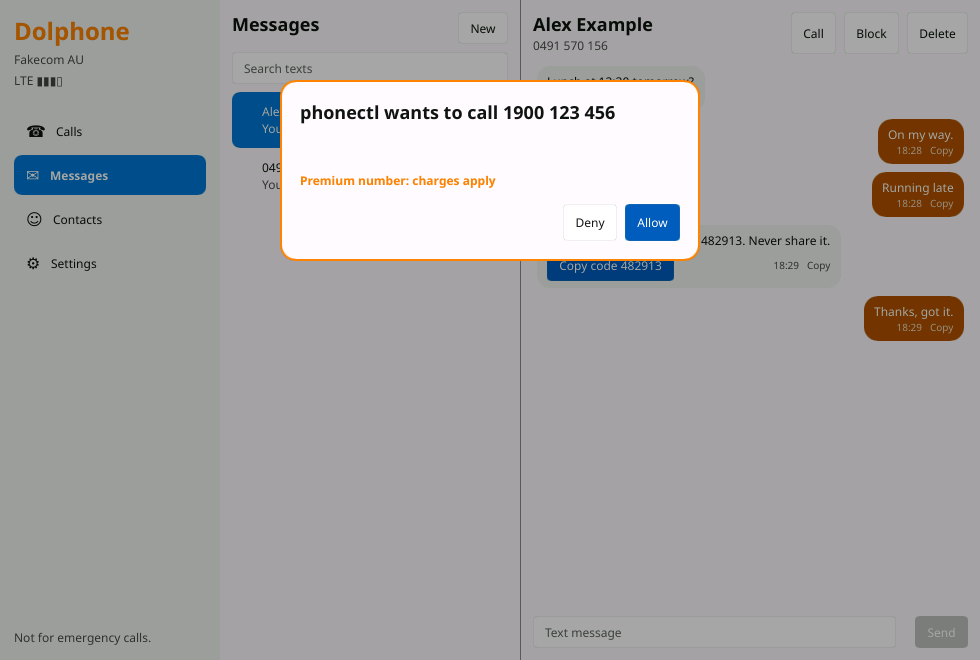
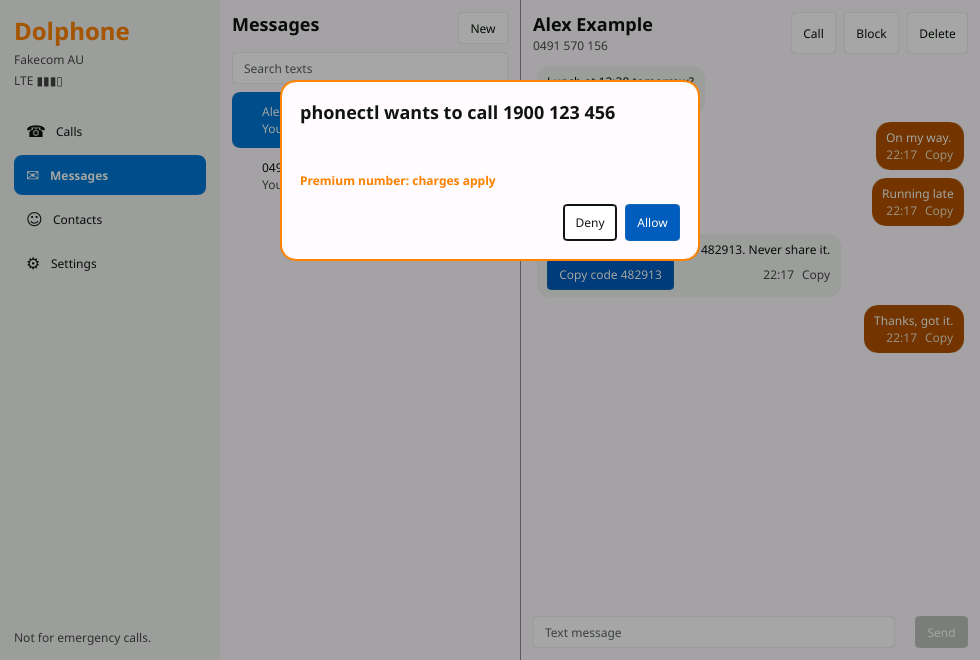
Docs from the twenty reviews: API reference, rules, counts; screenshots
- phone-api: the error names phoned really replies with (the standard D-Bus
  ones), every request kind and what its fields carry, the Contacts interface,
  who may do what, that signals carry no text; request_setting's doc was on
  the wrong method.
- docs/RULES.md: rules on incoming texts, which were documented only in the
  source.
- README, CHANGELOG, DEVELOPING: 224 e2e checks, 184 unit tests, 5 live UI
  tests, 10 KDE Connect checks; the thirty reviews and what they changed.
  ROADMAP: what the second round found that is still to do.
- The desktop live test waits for its own thread instead of whichever is first.
- Screenshots re-rendered (12 px minimum on the desktop, new labels).

Claude-Session: https://claude.ai/code/session_01UdycNdb8PBPy7WTyWjqGok

diff --git a/crates/phone-api/src/lib.rs b/crates/phone-api/src/lib.rs
@@ -14,8 +14,21 @@
 //! | `Confirm` | actions waiting for a press on the device |
 //! | `Audio` | where call audio goes, the ringer |
 //! | `Bluetooth` | pairing and connecting headsets and speakers |
-//! | `Modem` | network status and USSD |
-//! | `Settings` | blocked numbers, preferences, wiping |
+//! | `Modem` | network status, USSD and service codes, the modem's setup |
+//! | `Settings` | blocked numbers, preferences, grants, the audit log, wiping |
+//! | `Contacts` | reading and changing contacts, copying a phone's phonebook |
+//!
+//! What a caller may do depends on who it is: Dolphone's own apps may do
+//! everything; another program may ask to dial, text, change a setting or a
+//! contact (each waits for a press on the device; see [`Request`]), may hang up and
+//! read the modem's status, and may read messages and the call log only with a read
+//! grant (`read_grants`). Refusals come back as the standard
+//! `org.freedesktop.DBus.Error.AccessDenied`; bad arguments as `InvalidArgs`; rate
+//! limits as `LimitsExceeded`; what the modem or network refused as `Failed` or
+//! `NotSupported`, with the reason in the message.
+//!
+//! Signals carry no message text, ever: [`MessageInfo::body`] is empty in
+//! `MessageAdded`, and a reader fetches the conversation to read it.
 //!
 //! Enums travel as `u8` and convert to and from [`phone_core::model`]'s types on
 //! either side (this crate keeps no dependency on phone-core so a script author can
@@ -37,13 +50,19 @@ pub mod iface {
     pub const SETTINGS: &str = "io.github.isaacrowntree.Dolphone1.Settings";
 }
 
-/// Error names, as `phoned` raises them.
+/// The error names `phoned` replies with: the standard D-Bus ones, with the reason
+/// in the message.
 pub mod error {
-    pub const RATE_LIMITED: &str = "io.github.isaacrowntree.Dolphone1.Error.RateLimited";
-    pub const NO_MODEM: &str = "io.github.isaacrowntree.Dolphone1.Error.NoModem";
-    pub const NO_SUCH_CALL: &str = "io.github.isaacrowntree.Dolphone1.Error.NoSuchCall";
-    pub const INVALID: &str = "io.github.isaacrowntree.Dolphone1.Error.Invalid";
-    pub const DENIED: &str = "io.github.isaacrowntree.Dolphone1.Error.Denied";
+    /// Not allowed for this caller (only Dolphone's own apps, or a read grant).
+    pub const DENIED: &str = "org.freedesktop.DBus.Error.AccessDenied";
+    /// A bad number, an unknown setting, no such call or request.
+    pub const INVALID: &str = "org.freedesktop.DBus.Error.InvalidArgs";
+    /// Too many texts or calls this hour, or over a grant's limit.
+    pub const RATE_LIMITED: &str = "org.freedesktop.DBus.Error.LimitsExceeded";
+    /// Something this modem, network or setup cannot do.
+    pub const NOT_SUPPORTED: &str = "org.freedesktop.DBus.Error.NotSupported";
+    /// It was tried and failed (no modem, the network refused).
+    pub const FAILED: &str = "org.freedesktop.DBus.Error.Failed";
 }
 
 /// A live call.
@@ -199,15 +218,20 @@ pub struct Placed {
 #[zbus(crate = "zbus::wire")]
 pub struct Request {
     pub id: u32,
-    /// "call", "sms" or "ussd".
+    /// What it would do: "call", "sms" (a text or an MMS), "contact", "grant",
+    /// "setting", "modem" (the modem's setup), "kdeconnect" (pairing a laptop) or
+    /// "wipe".
     pub kind: String,
+    /// What it is done to: the number (comma separated for a group), the setting's
+    /// key, the contact change in words, the laptop.
     pub target: String,
-    /// The text, for an SMS.
+    /// The text for a call or text ("" to programs other than Dolphone's apps);
+    /// the new value for a setting; "N/h|days" for a grant (see [`grant_terms`]).
     pub body: String,
     /// Who asked: the program's name as the daemon saw it.
     pub requester: String,
-    /// Why it needs confirming: "external", "premium", "short", "international",
-    /// "emergency".
+    /// Why it needs confirming: "external" (another program asked), "premium",
+    /// "short", "international", "emergency", or the kind itself for the rest.
     pub reason: String,
 }
 
@@ -470,12 +494,13 @@ pub trait Settings {
     /// Delete every message, call and setting. Asks for confirmation on the device
     /// unless it came from Dolphone's own Settings app.
     fn wipe(&self) -> zbus::Result<Placed>;
+    /// Change a setting from another program: it waits for a press on the device
+    /// (Dolphone's own apps get it at once). Not the SIP password. For
+    /// `read_grants`, "+name" adds one program and "-name" removes one.
+    fn request_setting(&self, key: &str, value: &str) -> zbus::Result<Placed>;
     /// Ask for a standing grant to text `numbers` (comma separated, `*` suffix for a
     /// prefix) up to `per_hour` times for `days` days (0 for no end). Waits for the
     /// owner's confirmation on the device, like any outside request.
-    /// Change a setting from another program: it waits for a press on the device
-    /// (Dolphone's own apps get it at once). Not the SIP password.
-    fn request_setting(&self, key: &str, value: &str) -> zbus::Result<Placed>;
     fn request_grant(&self, numbers: &str, per_hour: u32, days: u32) -> zbus::Result<Placed>;
     fn grants(&self) -> zbus::Result<Vec<Grant>>;
     fn revoke_grant(&self, id: i64) -> zbus::Result<()>;

diff --git a/apps/desktop/src/main.rs b/apps/desktop/src/main.rs
@@ -453,7 +453,11 @@ mod tests {
         // A one-time code arrives: the conversation offers to copy it.
         phonectl(&["fake", "sms", "+61491570156", "Your Example Bank code is 482913. Never share it."]);
         ui.invoke_navigate(1);
-        pump(&rx, "the thread is listed", |a| !a.threads.is_empty());
+        // This text's thread, on top: earlier live tests left threads of their own,
+        // and the first one may still be one of those until this text arrives.
+        pump(&rx, "the thread is listed", |a| {
+            a.threads.first().is_some_and(|t| t.peer == "+61491570156" && t.last_body.contains("482913"))
+        });
         ui.invoke_open_thread(0);
         pump(&rx, "the code is found", |a| {
             use slint::Model;

diff --git a/docs/introduction.md b/docs/introduction.md
@@ -67,18 +67,27 @@ disagree about a call. More in [docs/ARCHITECTURE.md](ARCHITECTURE.md).
 Everything above works against **fake-mm**, a stand-in ModemManager that `mmcli`
 itself accepts, and a second baresip playing the far end of SIP calls. The tests:
 
-- **212 end-to-end checks** (`scripts/e2e.sh`): phoned, the fake modem, a fake
-  mmsd-tng and phonectl playing through calls, texts, MMS, alerts, SIM PIN, SIP,
-  service codes, the modem's setup, grants, rules, contacts, the encrypted store,
-  serial call audio through real PipeWire, and what an untrusted script is and is
-  not allowed to do;
-- **4 live UI tests** (`scripts/ui-e2e.sh`): the Dialer, Messages, Settings and the
-  desktop app, driven through their real input against a live phoned, with a
-  screenshot of each step;
-- **11 KDE Connect checks** (`scripts/kdeconnect-e2e.sh`) against the real
+- **224 end-to-end checks** (`scripts/e2e.sh`): phoned, the fake modem, a fake
+  mmsd-tng and phonectl playing through calls, texts, MMS, alerts, SIM PIN and SIM
+  codes, an emergency call with the SIM locked, SIP, service codes, the modem's
+  setup, grants, rules, contacts, the encrypted store, serial call audio through
+  real PipeWire, and what an untrusted script is and is not allowed to do; they
+  also pass with every CPU core busy, as a stand-in for a slow device;
+- **5 live UI tests** (`scripts/ui-e2e.sh`): the Dialer, Messages, Settings and the
+  desktop app (and its tray icon), driven through their real input against a live
+  phoned, with a screenshot of each step;
+- **10 KDE Connect checks** (`scripts/kdeconnect-e2e.sh`) against the real
   kdeconnectd: pairing, texts both ways, a ringing call;
-- **137 unit tests**, including every panel screen rendered and checked against the
+- **184 unit tests**, including every panel screen rendered and checked against the
   panel's fonts.
+
+Before release it had thirty reviews: ten for features and fit, then twenty more
+on security from a same-user program and from the network, Rust robustness,
+concurrency, data integrity, packaging, the modem, audio, emergency calling,
+telephony standards, numbers abroad, accessibility, the scripting API, the tests
+themselves, onboarding, FlipCTL's conventions, licensing, battery use, failure
+recovery and privacy. What they found is fixed or written down in
+[ROADMAP.md](roadmap.md).
 
 The panel apps also run in the real FlipCTL (its browser view, in a VM).
 **Dolphone has not yet carried a real call**: that needs the hardware test in
@@ -131,9 +140,9 @@ On an Apple Silicon Mac with [OrbStack](https://orbstack.dev):
 ```sh
 scripts/dev-setup.sh                 # a Debian 13 arm64 machine, FlipCTL built, fake modem in
 orb -m f1 scripts/run-dev.sh         # build, install, start; open http://f1.orb.local:8899/
-orb -m f1 phonectl fake ring 0491570156          # and watch the panel
-orb -m f1 phonectl fake sms 0491570156 "hello"
-orb -m f1 phonectl fake broadcast 4370 "Test alert"
+orb -m f1 ~/.local/bin/phonectl fake ring 0491570156     # and watch the panel
+orb -m f1 ~/.local/bin/phonectl fake sms 0491570156 "hello"
+orb -m f1 ~/.local/bin/phonectl fake broadcast 4370 "Test alert"
 ```
 
 More in [docs/DEVELOPING.md](DEVELOPING.md).
@@ -175,6 +184,7 @@ phonectl device                                     # which device profile, and 
 
 - [Install](install.md)
 - [Buttons](BUTTONS.md): every key on every screen
+- [Rules on incoming texts](RULES.md): run a command when a matching text arrives
 - [Architecture](ARCHITECTURE.md): the pieces and why they are split that way
 - [Audio](AUDIO.md): routes, echo cancellation, Bluetooth, the jack
 - [Devices](DEVICES.md): device profiles, and adding one
@@ -185,7 +195,11 @@ phonectl device                                     # which device profile, and 
 
 ## License
 
-Source: MIT. The panel apps link Slint through flipctl-app under GPL-3.0-only, so
-their **binaries are GPL-3.0-only**; each release carries the full corresponding
-source. The panel fonts are CC BY-SA 3.0, Unlicense and MIT; see each bundle's
-`NOTICE.md` and `THIRD-PARTY-LICENSES.md`.
+Source: MIT. The panel apps and the desktop app link Slint (the panel apps through
+flipctl-app) under GPL-3.0-only, so **those binaries are GPL-3.0-only**; each
+release carries the full corresponding source, and the Debian package says where
+it is in `/usr/share/doc/dolphone/copyright`. phoned, phonectl and the gateway are
+MIT, with their dependencies' notices in `THIRD-PARTY-LICENSES.md` (SQLCipher's
+among them). The panel fonts are CC BY-SA 3.0, Unlicense and MIT, and the AppImage
+runtime at the head of each bundle has its own notices; see each bundle's
+`NOTICE.md`.

diff --git a/CHANGELOG.md b/CHANGELOG.md
@@ -62,9 +62,48 @@ The roadmap from the reviews, done:
   off. A program asking to change a setting (`phonectl set`, `phonectl device use`)
   waits for a press on the device, as texts and calls do; Delete phone data removes
   contacts too. The panel apps no longer link the database at all.
-- Tests: the end-to-end suite grew to 212 checks, with 11 more against the real KDE
+- Tests: the end-to-end suite grew to 224 checks, with 10 more against the real KDE
   Connect daemon; the four apps are driven live against phoned
-  (`scripts/ui-e2e.sh`); CI runs in Debian 13 containers.
+  (`scripts/ui-e2e.sh`); CI runs in Debian 13 containers; the suite also passes
+  with every CPU core busy.
+
+Fixed after twenty more reviews (security from a program and from the network,
+robustness, concurrency, data, packaging, the modem, audio, emergency calling,
+telephony standards, numbers abroad, accessibility, the scripting API, the tests,
+onboarding, FlipCTL's conventions, licensing, battery, failure recovery, privacy):
+
+- Security: an AppImage front end must be a real FUSE mount; a SIP peer is a
+  contact's number only from the account's provider, and SIP texts run no rules;
+  Bluetooth pairing accepts only the device picked; KDE Connect binds approval to
+  the asking certificate, caps lines, connections and requests, and times out
+  handshakes; the gateway refuses non-loopback addresses without
+  `--insecure-listen`, caps connections and has deadlines; mmsd-tng must be a
+  system program; notifications escape markup; grant prompts say which numbers,
+  how often and for how long; live calls' numbers and others' requests are masked
+  for programs that may not read; the SIM's PIN and PUK codes are handled on the
+  device instead of sent as USSD.
+- Emergency: national numbers for NZ, India, Singapore, France, Russia, Brazil,
+  China, South Africa; `+61 000` and the like; an emergency call with the SIM
+  locked; Australia's Emergency Alert texts (0444 444 444) never blocked and
+  sounded through silent; alerts shown even when they cannot be stored; channel 919.
+- Calls and texts: a call adopted after a restart gets its audio; a call that can
+  no longer be followed ends instead of making later calls "waiting"; a
+  ModemManager restart or a pulled SIM ends the old calls; audio starts and stops in
+  order; SIP crashes are noticed; Bluetooth calls switch the headset to its
+  hands-free profile; the speaker route and the ringer play where they should;
+  caller-ID hiding survives a modem restart; delivery reports wait out temporary
+  errors; segment counts match how parts are packed; alphanumeric senders keep
+  their names; two different international numbers are never one contact.
+- Data: a store is moved aside only when damaged, with its WAL; contact edits keep
+  every other line of a card and write atomically; MMS pictures cannot overwrite
+  each other and are kept by mmsd-tng until all are saved; texts left sending
+  become failed and can be sent again.
+- Packaging and licences: the LED udev rule works (it never ran its commands);
+  upgrades keep ModemManager running and the owner's debug-mode answer;
+  SQLCipher's notice, the desktop app's GPL, the AppImage runtime's notices; the
+  source tarball builds offline.
+- Battery: the apps redraw and poll only when something changed; contacts are read
+  once; phoned wakes less when idle.
 
 - phoned: calls (dial, answer, decline, hold/swap, waiting, DTMF, mute), texts
   (multipart, cleaning, deletion from the modem once stored), confirmations for

diff --git a/README.md b/README.md
@@ -67,18 +67,27 @@ disagree about a call. More in [docs/ARCHITECTURE.md](docs/ARCHITECTURE.md).
 Everything above works against **fake-mm**, a stand-in ModemManager that `mmcli`
 itself accepts, and a second baresip playing the far end of SIP calls. The tests:
 
-- **212 end-to-end checks** (`scripts/e2e.sh`): phoned, the fake modem, a fake
-  mmsd-tng and phonectl playing through calls, texts, MMS, alerts, SIM PIN, SIP,
-  service codes, the modem's setup, grants, rules, contacts, the encrypted store,
-  serial call audio through real PipeWire, and what an untrusted script is and is
-  not allowed to do;
-- **4 live UI tests** (`scripts/ui-e2e.sh`): the Dialer, Messages, Settings and the
-  desktop app, driven through their real input against a live phoned, with a
-  screenshot of each step;
-- **11 KDE Connect checks** (`scripts/kdeconnect-e2e.sh`) against the real
+- **224 end-to-end checks** (`scripts/e2e.sh`): phoned, the fake modem, a fake
+  mmsd-tng and phonectl playing through calls, texts, MMS, alerts, SIM PIN and SIM
+  codes, an emergency call with the SIM locked, SIP, service codes, the modem's
+  setup, grants, rules, contacts, the encrypted store, serial call audio through
+  real PipeWire, and what an untrusted script is and is not allowed to do; they
+  also pass with every CPU core busy, as a stand-in for a slow device;
+- **5 live UI tests** (`scripts/ui-e2e.sh`): the Dialer, Messages, Settings and the
+  desktop app (and its tray icon), driven through their real input against a live
+  phoned, with a screenshot of each step;
+- **10 KDE Connect checks** (`scripts/kdeconnect-e2e.sh`) against the real
   kdeconnectd: pairing, texts both ways, a ringing call;
-- **137 unit tests**, including every panel screen rendered and checked against the
+- **184 unit tests**, including every panel screen rendered and checked against the
   panel's fonts.
+
+Before release it had thirty reviews: ten for features and fit, then twenty more
+on security from a same-user program and from the network, Rust robustness,
+concurrency, data integrity, packaging, the modem, audio, emergency calling,
+telephony standards, numbers abroad, accessibility, the scripting API, the tests
+themselves, onboarding, FlipCTL's conventions, licensing, battery use, failure
+recovery and privacy. What they found is fixed or written down in
+[ROADMAP.md](ROADMAP.md).
 
 The panel apps also run in the real FlipCTL (its browser view, in a VM).
 **Dolphone has not yet carried a real call**: that needs the hardware test in
@@ -175,6 +184,7 @@ phonectl device                                     # which device profile, and 
 
 - [Install](docs/install.md)
 - [Buttons](docs/BUTTONS.md): every key on every screen
+- [Rules on incoming texts](docs/RULES.md): run a command when a matching text arrives
 - [Architecture](docs/ARCHITECTURE.md): the pieces and why they are split that way
 - [Audio](docs/AUDIO.md): routes, echo cancellation, Bluetooth, the jack
 - [Devices](docs/DEVICES.md): device profiles, and adding one

diff --git a/docs/RULES.md b/docs/RULES.md
@@ -1,0 +1,61 @@
+# Rules on incoming texts
+
+A rule runs a command when a matching text arrives: a text that says STATUS gets
+the uplink's state back, a text with a code reboots a router, a one-time code is
+handed to a script. Rules live in `~/.config/dolphone/rules.json`, a list:
+
+```json
+[
+  { "from": "+61491570156", "contains": "STATUS", "secret": "4821",
+    "run": ["/usr/local/bin/wan-status"], "reply": true },
+  { "from": "*", "contains": "Your code is", "run": ["/home/me/bin/otp-to-clipboard"] }
+]
+```
+
+| Field | | |
+|---|---|---|
+| `from` | required | the sender, in any form (`0491 570 156`, `+61491570156`), or `*` for anyone |
+| `contains` | optional | text the message must contain, ignoring case |
+| `secret` | optional | text it must also contain, exactly: a shared password for rules that do something |
+| `run` | required | the program and its arguments; run directly, never through a shell |
+| `reply` | optional | `true` to text back what the program prints |
+
+A field phoned does not know makes the whole file invalid (it says so in its log)
+rather than being ignored: a misspelled `"contains"` would otherwise leave a rule
+that fires on every text from that sender. phoned reads the file again for every
+text, so changes count at once.
+
+## What the program gets
+
+The text as JSON on its standard input:
+
+```json
+{"from": "+61491570156", "body": "STATUS 4821", "at": 1793228520}
+```
+
+`at` is when it was sent, in Unix seconds. The program has 30 seconds; after that it
+is stopped. Every rule that matches runs, each on its own, at the same time.
+
+With `"reply": true`, what the program prints (up to 600 characters) is texted back
+to the sender, but only to a sender the rule names: a rule for `*` never replies,
+so a rule cannot be made to text anyone who writes to it. A program that exits with
+an error sends no reply, and what it printed to its standard error goes to phoned's
+log (`journalctl --user -u phoned`), for you to see why.
+
+## What never runs a rule
+
+- Texts that arrive over SIP: a SIP sender is not authenticated the way a mobile
+  network's is, and a reply goes out as a text on your account.
+- Texts from blocked numbers, and flash texts, which are shown and not kept.
+
+## An example: STATUS
+
+```sh
+#!/bin/sh
+# /usr/local/bin/wan-status: say whether the uplink is up.
+ip -brief link show eth0 | awk '{print "eth0 is " tolower($2)}'
+```
+
+With the first rule above, texting `STATUS 4821` from +61491570156 gets `eth0 is up`
+back. For texting when the uplink goes down without being asked, see the
+`uplink_alert_to` setting instead.

diff --git a/ROADMAP.md b/ROADMAP.md
@@ -49,6 +49,19 @@ audio. What only a board can confirm:
 - **MMS pictures encrypted with the store.** The store's messages are encrypted when
   the owner asks (`phoned --encrypt-store`); the picture files beside it are not, and
   rely on full-disk encryption.
+- **From the second round of reviews, still to do:**
+  - Signals carry who is calling or texting (no text), which every program on the
+    bus sees; sending them only to Dolphone's own apps needs a change to how front
+    ends subscribe.
+  - A pending request exits phonectl with 0; distinct exit codes, and `--json`
+    everywhere, would make scripts simpler (`phonectl wait` covers the waiting).
+  - A newer emergency alert replaces one not yet dismissed; they should queue, the
+    most severe on top. The alert tone is 4 s (the US asks for about 10.5 s).
+  - Text-to-911 where carriers support it (texts to emergency numbers are refused).
+  - Serial call audio has no buffer for the two clocks drifting apart over a long
+    call; a ring buffer that drops or pads would.
+  - Some idle polling remains (the jack every 5 s, the uplink every 10 s, KDE
+    Connect's discovery); events would be cheaper.
 - **A Messages PIN.** The store's key is sealed by systemd to this user on this
   machine, which keeps a copy of the home directory unreadable; a PIN would also
   keep out someone holding the unlocked device. Same-user code can still read the

diff --git a/docs/DEVELOPING.md b/docs/DEVELOPING.md
@@ -68,9 +68,9 @@ build first, since they run what is in `$CARGO_TARGET_DIR/debug`:
 ```sh
 cargo build --workspace                      # what the scripts run
 cargo test --workspace                       # core, daemon, CLI, desktop
-scripts/e2e.sh                               # 212 checks: fake-mm, fake-mmsd, phoned, a SIP far end, phonectl, on real buses
+scripts/e2e.sh                               # 224 checks: fake-mm, fake-mmsd, phoned, a SIP far end, phonectl, on real buses
 scripts/ui-e2e.sh                            # the four apps driven live against phoned; screenshots in */target/render/live/
-scripts/kdeconnect-e2e.sh                    # 11 checks against the real kdeconnectd (apt install kdeconnect)
+scripts/kdeconnect-e2e.sh                    # 10 checks against the real kdeconnectd (apt install kdeconnect)
 cd apps/dialer && DOLPHONE_RENDER=1 cargo test  # behaviour, and every screen to target/render/
 python3 tools/showcase.py                    # README pictures from the renders
 ```

diff --git a/docs/SUMMARY.md b/docs/SUMMARY.md
@@ -4,6 +4,7 @@
 
 - [Install](install.md)
 - [Buttons](BUTTONS.md)
+- [Rules on incoming texts](RULES.md)
 - [Architecture](ARCHITECTURE.md)
 - [Audio](AUDIO.md)
 - [Devices](DEVICES.md)
